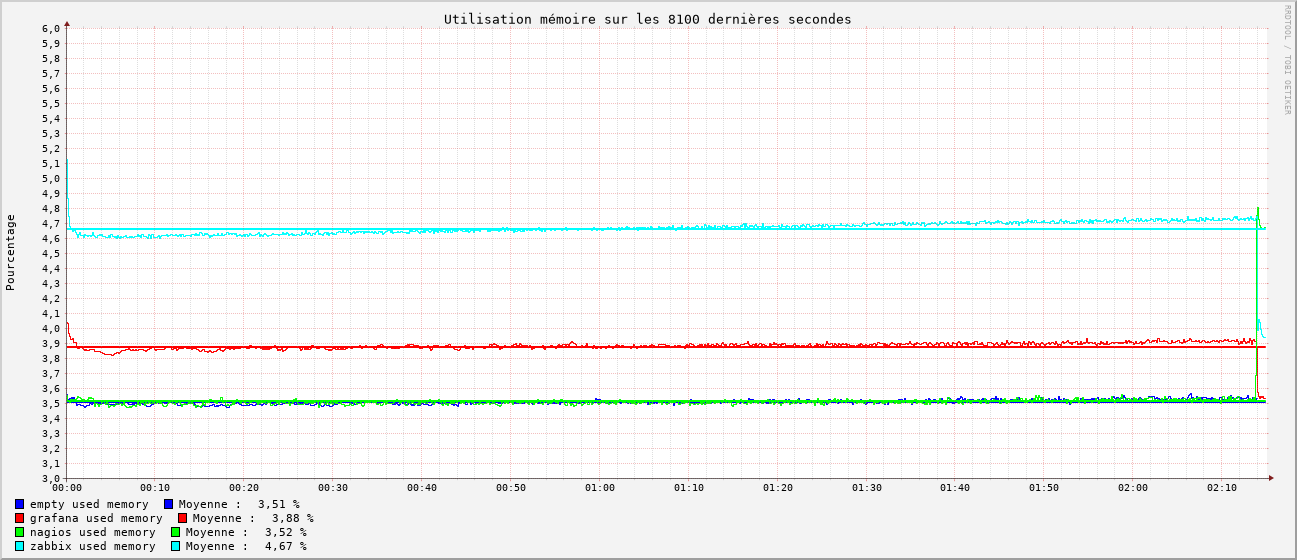
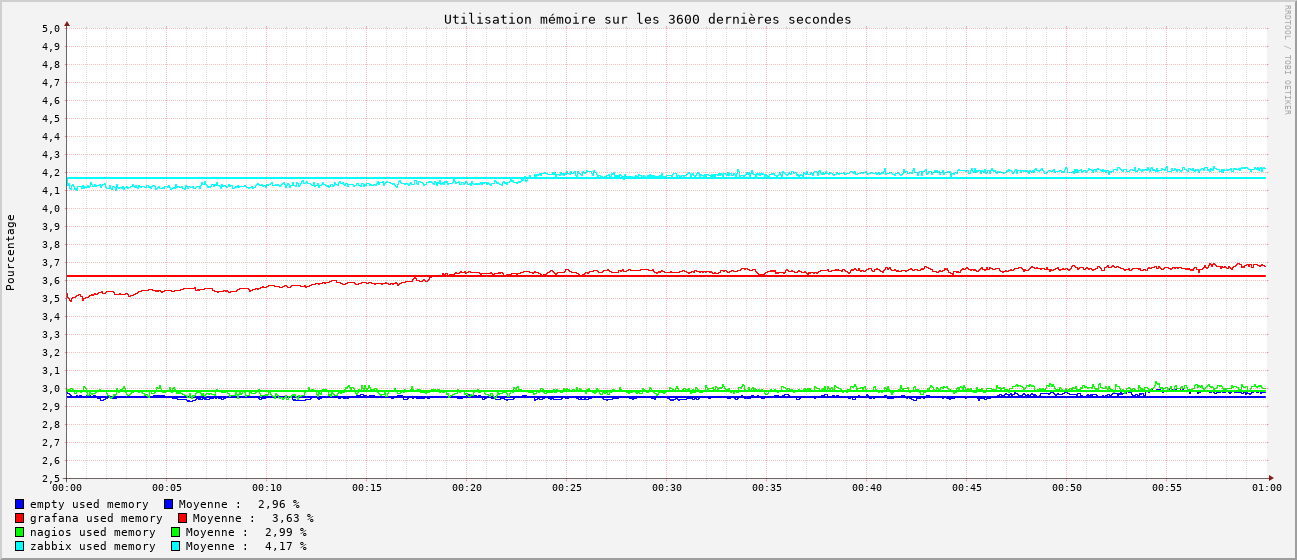
fix: refaire les graphiques et les analyses de monitoring

diff --git a/_drafts/monitoring-conclusion.md b/_drafts/monitoring-conclusion.md
@@ -13,26 +13,26 @@ tags:
 
 ## Graphiques de performance
 
-Chaque graphique ci-dessous représente la moyenne des mesures prises toutes les secondes sur une période de 8100 secondes pour chaque outil de monitoring, soit approximativement **2h20** . Les mesures sont comparées à une mesure témoin prise sans aucun outil de monitoring en fonctionnement (*empty*).
+Chaque graphique ci-dessous représente la moyenne des mesures prises toutes les secondes sur une période de 3600 secondes pour chaque outil de monitoring, soit approximativement **1h00** . Les mesures sont comparées à une mesure témoin prise sans aucun outil de monitoring en fonctionnement (*empty*).
 
 ### CPU
 
 [![Graphique comparatif de l'utilisation CPU des trois outils.](../images/monitoring-dasboard-benchmark/graph_cpu_usage.png)](../images/monitoring-dasboard-benchmark/graph_cpu_usage.png)
 
-On observe que **Zabbix** est l'outil le plus gourmand en CPU, et de loin avec une moyenne de **160%** d'utilisation. **Nagios** et **Graphite + Grafana** sont beaucoup moins gourmands avec une moyenne de **24%** d'utilisation CPU pour **Nagios** et **16%** pour **Graphite + Grafana**. Sachant que la mesure témoin donne **10%** d'utilisation sans outils en fonctionnement, cela nous donne une approximation à:
-  - **Zabbix** : **150%** d'utilisation CPU
-  - **Nagios** : **14%** d'utilisation CPU
+On observe que **Zabbix** est l'outil le plus gourmand en CPU, et de loin avec une moyenne de **151%** d'utilisation. **Nagios** et **Graphite + Grafana** sont beaucoup moins gourmands avec une moyenne de **23%** d'utilisation CPU pour **Nagios** et **16%** pour **Graphite + Grafana**. Sachant que la mesure témoin donne **10%** d'utilisation sans outils en fonctionnement, cela nous donne une approximation à:
+  - **Zabbix** : **141%** d'utilisation CPU
+  - **Nagios** : **13%** d'utilisation CPU
   - **Graphite + Grafana** : **6%** d'utilisation CPU
 
 ### RAM
 
 [![Graphique comparatif de l'utilisation mémoire des trois outils.](../images/monitoring-dasboard-benchmark/graph_memory_usage.png)](../images/monitoring-dasboard-benchmark/graph_memory_usage.png)
 
-Concernant la RAM, **Zabbix** est encore l'outil le plus gourmand avec une moyenne de **4,67%** d'utilisation RAM. La différence est moins marquée que pour l'utilisation CPU avec **Nagios** à **3,52%** et **Graphite + Grafana** qui a une moyenne de **3,88%** d'utilisation RAM. La mesure témoin donne **3,51%** d'utilisation sans outils en fonctionnement, ce qui nous donne une
+Concernant la RAM, **Zabbix** est encore l'outil le plus gourmand avec une moyenne de **4,17%** d'utilisation RAM. La différence est moins marquée que pour l'utilisation CPU avec **Nagios** à **2,99%** et **Graphite + Grafana** qui a une moyenne de **3,63%** d'utilisation RAM. La mesure témoin donne **2,96%** d'utilisation sans outils en fonctionnement, ce qui nous donne une
 approximation à:
-  - **Zabbix** : **1,59%** d'utilisation RAM
-  - **Nagios** : **0,01%** d'utilisation RAM
-  - **Graphite + Grafana** : **0,44%** d'utilisation RAM
+  - **Zabbix** : **1,21%** d'utilisation RAM
+  - **Nagios** : **0,03%** d'utilisation RAM
+  - **Graphite + Grafana** : **0,67%** d'utilisation RAM
 
 ## Tableau récapitulatif des observations
 

diff --git a/_posts/2025-07-18-monitoring-nagios.md b/_posts/2025-07-18-monitoring-nagios.md
@@ -58,22 +58,24 @@ Une première observation est que Nagios et Collectd ne sont pas directement com
 
 #### CPU
 
-[![Graphique d'utilisation CPU de Nagios sur les 8100 dernières secondes.](/images/monitoring-dasboard-benchmark/nagios_cpu_usage.png)](/images/monitoring-dasboard-benchmark/nagios_cpu_usage.png)
+[![Graphique d'utilisation CPU de Nagios sur les 3600 dernières secondes.](/images/monitoring-dasboard-benchmark/nagios_cpu_usage.png)](/images/monitoring-dasboard-benchmark/nagios_cpu_usage.png)
 
-Nagios est peu gourmand en CPU. On observe une utilisation moyenne de **24%** de celui-ci. De plus, son utilisation est stable dans le temps, ce qui est un bon point pour la fiabilité de l'outil.
+Nagios est peu gourmand en CPU. On observe une utilisation moyenne de **22,71%** de celui-ci. De plus, son utilisation est stable dans le temps, ce qui est un bon point pour la fiabilité de l'outil.
 
 #### RAM
 
-[![Graphique d'utilisation mémoire de Nagios sur les 8100 dernières secondes.](/images/monitoring-dasboard-benchmark/nagios_memory_usage.png)](/images/monitoring-dasboard-benchmark/nagios_memory_usage.png)
+[![Graphique d'utilisation mémoire de Nagios sur les 3600 dernières secondes.](/images/monitoring-dasboard-benchmark/nagios_memory_usage.png)](/images/monitoring-dasboard-benchmark/nagios_memory_usage.png)
 
-Nagios est économe en RAM également. On en observe une utilisation moyenne de **3,52%**. De plus, son utilisation est stable dans le temps, malgré une très légère augmentation sur la durée.
-
-*Note*: les pics à la fin de l'enregistrement correspondent à l'arrêt du docker Nagios.
+Nagios est économe en RAM également. On en observe une utilisation moyenne de **2,99%**. De plus, son utilisation est stable dans le temps. Il ne semble pas y avoir de fuite mémoire
 
 ## Conclusion
 
 Nagios est un outil de monitoring robuste et fiable. Il offre de bonnes performances en termes de consommation CPU et RAM.
 Cependant, sa configuration avec de nombreux fichiers est statique, notamment pour intégrer Collectd. Dans sa version opensource l'interface web n'a pas beaucoup évolué et ne permet pas de créer simplement des dashboards.
+
+ÉDITE (28/08/2025): 
+- nouveau tir pour clarifier les résultats CPU et RAM.
+- correction du scripte de benchmark mesure qui consommait de la mémoire.
 
 Retrouvez les autres articles de cette série (à venir dans les prochains jours) :
 

diff --git a/_drafts/monitoring-graphite.md b/_drafts/monitoring-graphite.md
@@ -58,15 +58,15 @@ Une première observation est que Graphite et Collectd sont compatibles. En effe
 
 #### CPU
 
-[![Graphique d'utilisation CPU de Graphite + Grafana sur les 8100 dernières secondes.](../images/monitoring-dasboard-benchmark/graphite+grafana_cpu_usage.png)](../images/monitoring-dasboard-benchmark/graphite+grafana_cpu_usage.png)
+[![Graphique d'utilisation CPU de Graphite + Grafana sur les 3600 dernières secondes.](../images/monitoring-dasboard-benchmark/graphite+grafana_cpu_usage.png)](../images/monitoring-dasboard-benchmark/graphite+grafana_cpu_usage.png)
 
-Graphite + Grafana semble être peu gourmand en CPU. On observe une utilisation moyenne de **16%** de celui-ci. De plus, son utilisation est stable dans le temps malgré une légère augmentation.
+Graphite + Grafana semble être peu gourmand en CPU. On observe une utilisation moyenne de **16,06%** de celui-ci. De plus, son utilisation est stable dans le temps.
 
 #### RAM
 
-[![Graphique d'utilisation mémoire de Graphite + Grafana sur les 8100 dernières secondes.](../images/monitoring-dasboard-benchmark/graphite+grafana_memory_usage.png)](../images/monitoring-dasboard-benchmark/graphite+grafana_memory_usage.png)
+[![Graphique d'utilisation mémoire de Graphite + Grafana sur les 3600 dernières secondes.](../images/monitoring-dasboard-benchmark/graphite+grafana_memory_usage.png)](../images/monitoring-dasboard-benchmark/graphite+grafana_memory_usage.png)
 
-Graphite + Grafana semble être peu gourmand en RAM. On en observe une utilisation moyenne de **3,88%**. De plus, son utilisation est stable dans le temps malgré une très légère augmentation dans la durée.
+Graphite + Grafana semble être peu gourmand en RAM. On en observe une utilisation moyenne de **3,63%**. De plus, on observe un légère augmentation dans la durée. Nous faisons l'hypothèse que cela viendrait de la gestion des données qui serait montée en partie en RAM (à confirmer).
 
 ### Conclusion
 

diff --git a/_drafts/monitoring-influxdb.md b/_drafts/monitoring-influxdb.md
@@ -60,6 +60,17 @@ Il est nativement compatible avec Collectd et Grafana, ce qui rend sa configurat
 
 ### Performances
 
+#### CPU
+
+[![Graphique d'utilisation CPU de Influxdb + Grafana sur les 3600 dernières secondes.](../images/monitoring-dasboard-benchmark/influxdb_cpu_usage.png)](../images/monitoring-dasboard-benchmark/influxdb_cpu_usage.png)
+
+Influxdb semble être moins gourmand en CPU que graphite. On observe une utilisation moyenne de **11,12%** pour influxdb contre **16,06%** pour graphite, soit une différence de **4,94%** de moins. De plus, son utilisation est stable dans le temps.
+
+#### RAM
+
+[![Graphique d'utilisation mémoire de Influxdb + Grafana sur les 3600 dernières secondes.](../images/monitoring-dasboard-benchmark/influxdb_memory_usage.png)](../images/monitoring-dasboard-benchmark/influxdb_memory_usage.png)
+
+Influxdb semble être moins gourmand en RAM que graphite. On en observe une utilisation moyenne de **3,17%** pour influxdb contre **3,63%** pour graphite. De plus, on observe un légère meilleure stabilité dans la durée.
 
 ### Conclusion
 
